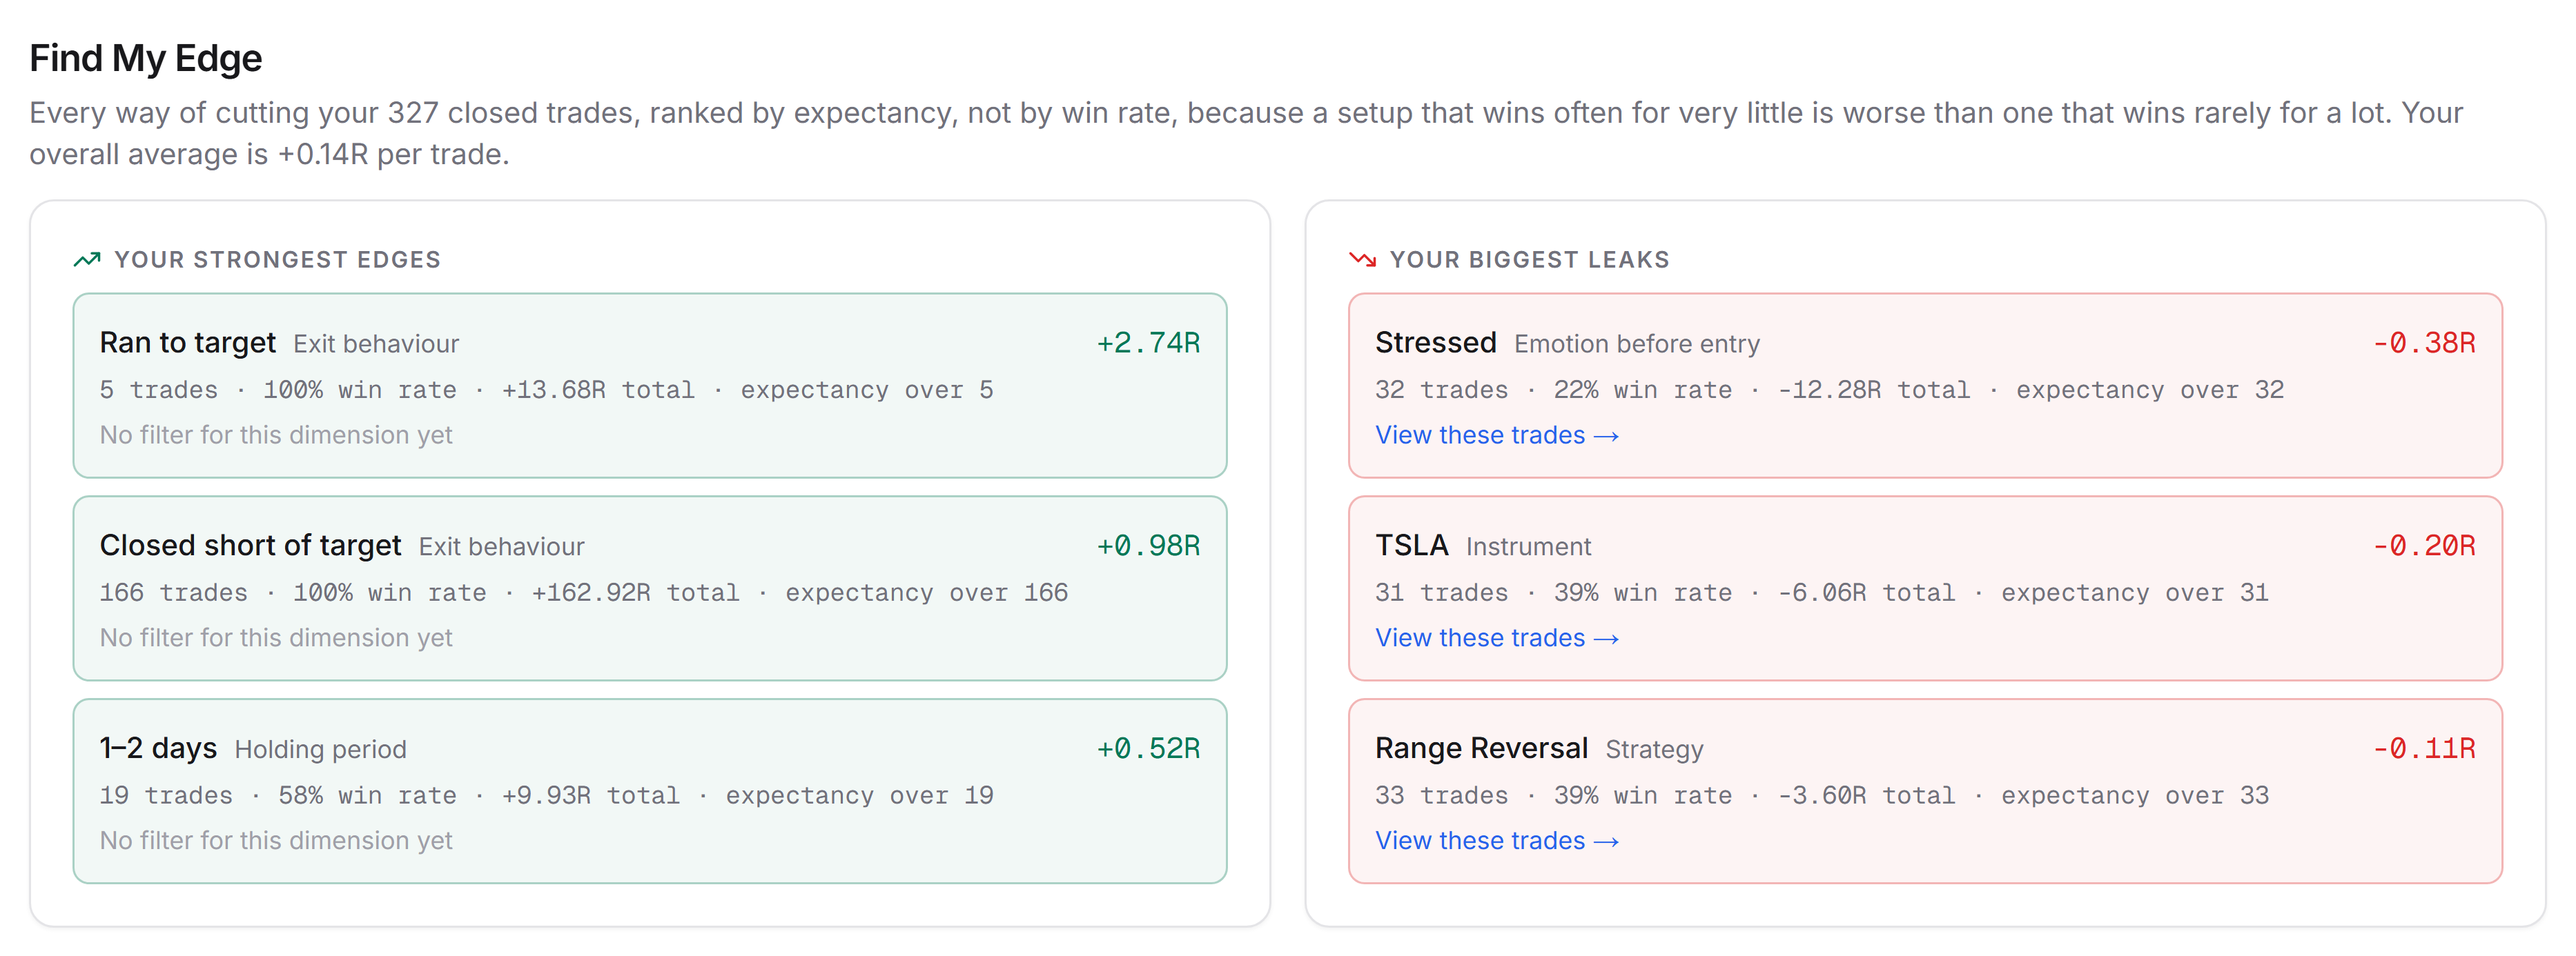
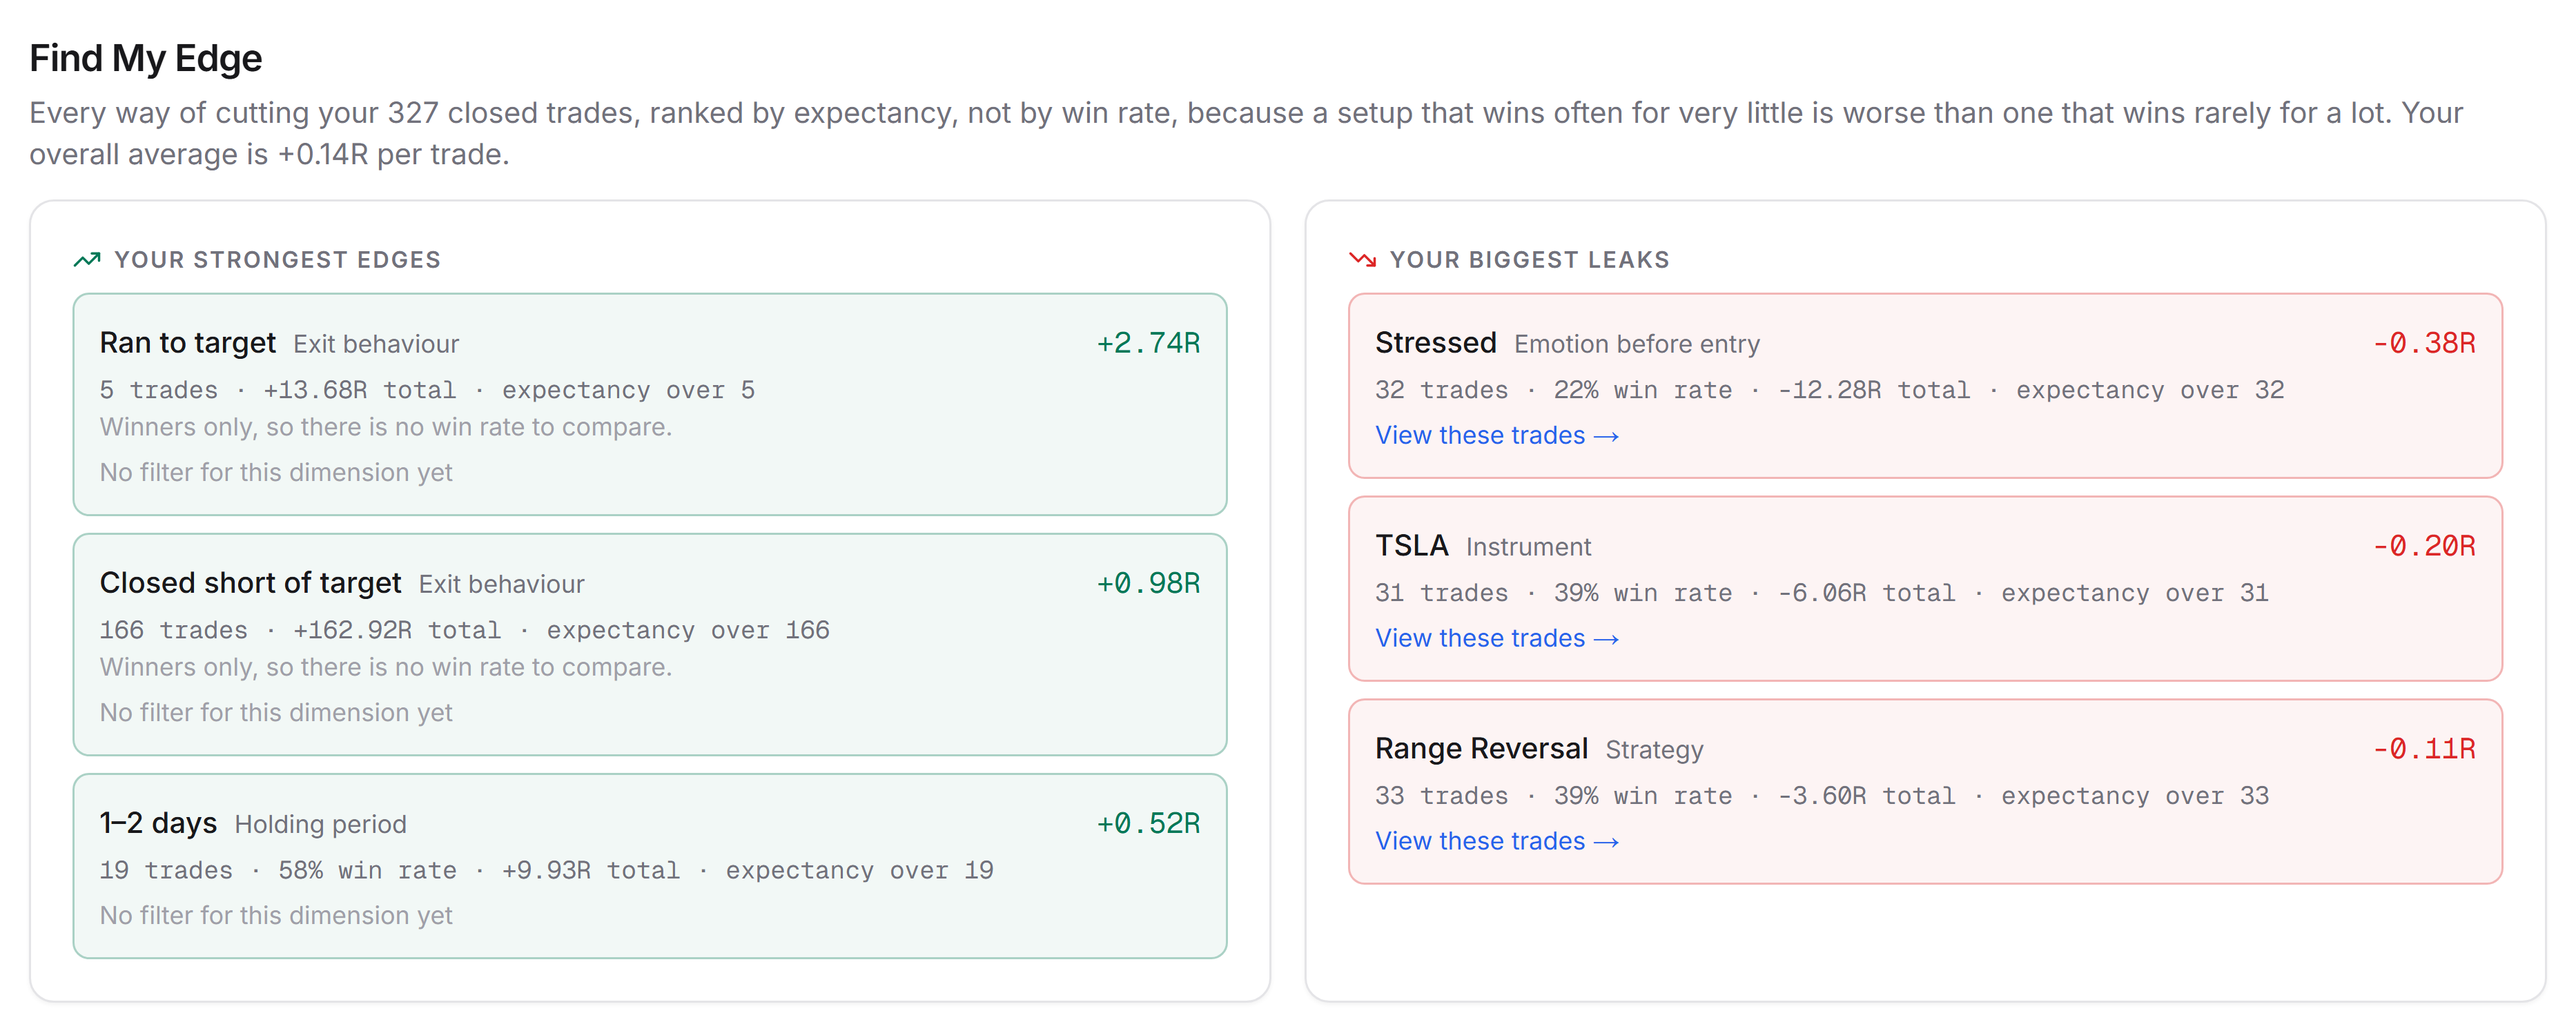
Stop printing a win rate that is always 100%, and explain the paid plan
The Find My Edge screenshot showed "Closed short of target - 166 trades -
100% win rate", which reads as either a miracle or a bug. It was neither,
and it was not bad demo data: the exit-behaviour dimension is winners-only
by design, because exiting short of target on a loser is a stop being hit
rather than an exit decision. A win rate over a winners-only group is a
restatement of how the group is built, so the panel now says exactly that
instead of printing 100% next to real win rates on neighbouring rows.

That is an app fix, not a screenshot fix. Any real user reading that panel
saw the same meaningless figure.

Adds /paid-plan: every gated feature with what it is, how it works and how
to use it, reached from a link under the pricing walkthrough. Each entry
maps to a real gate in the code, and no price appears anywhere because
billing is not live yet.

The capture script now takes a PORT and documents the trap that cost two
rounds here: next/image keys its cache on the request URL, so recapturing
keeps serving the old picture until .next/dev/cache/images is deleted.

diff --git a/src/app/paid-plan/page.tsx b/src/app/paid-plan/page.tsx
@@ -1,0 +1,215 @@
+import type { Metadata } from "next";
+import Link from "next/link";
+import { LandingHeader } from "@/components/landing/LandingHeader";
+import { LandingFooter } from "@/components/landing/LandingFooter";
+
+// The long version of the paid plan.
+//
+// The pricing section already has a two-minute walkthrough modal. This is the
+// page for the reader who wants to know exactly what they would be paying for
+// before they decide, and it answers three questions per feature rather than
+// listing names: what it is, how it works, and how you would actually use it.
+//
+// **Every entry below maps to a real gate in the code.** /reviews, /reports
+// and /ask check isPaidUser and redirect; Find My Edge, the strategy
+// scorecards, and the performance, excursion, risk and regime panels render an
+// upsell in place of the panel. Nothing here is aspirational, and a feature
+// that does not ship does not appear.
+//
+// No pricing number appears anywhere on this page on purpose: billing is not
+// live yet, and a figure printed before it is real is the kind of detail
+// people remember being wrong about.
+
+export const metadata: Metadata = {
+  title: "What the paid plan does — Trading Lens",
+  description:
+    "Every paid feature explained: what it is, how it works, and how to use it. The free journal stays complete.",
+};
+
+interface Feature {
+  name: string;
+  where: string;
+  what: string;
+  how: string;
+  use: string;
+}
+
+const GROUPS: { group: string; blurb: string; features: Feature[] }[] = [
+  {
+    group: "Reading your own history",
+    blurb:
+      "The free plan records what happened. These four read it back and tell you which parts of your trading are carrying the account.",
+    features: [
+      {
+        name: "Find My Edge",
+        where: "Insights",
+        what: "Every way of cutting your closed trades, ranked by expectancy rather than win rate.",
+        how: "Each trade is grouped by setup, instrument, day, holding period, emotion and exit behaviour. Every group is scored on average R and compared against your own overall average, so the ranking is relative to you rather than to some general benchmark. Groups below a minimum sample are held back instead of shown, because a segment built on four trades is noise.",
+        use: "Open it after a month or two of trading. Read the leaks before the edges: cutting the worst segment usually moves the curve further than doing more of the best one.",
+      },
+      {
+        name: "MAE / MFE",
+        where: "Analysis",
+        what: "How far each trade went against you after entry, and how far it ran in your favour before you closed it.",
+        how: "Prices between your entry and exit are measured to find the worst and best points the trade reached, then expressed both as a percentage and in R. The capture figure is the share of the favourable move you actually kept.",
+        use: "A high adverse excursion on trades that still won means your stop is sitting further away than it needs to. A low capture rate means you are leaving the back half of your moves behind.",
+      },
+      {
+        name: "Strategy scorecards",
+        where: "Strategies",
+        what: "Each strategy scored on its own, side by side.",
+        how: "Trades are grouped by the strategy they are tagged with, then scored on the same measures the rest of the app uses, so the numbers agree with what you see elsewhere.",
+        use: "Run it when you are deciding which setup to drop. It answers which strategy is worth the screen time, rather than which one you enjoy trading.",
+      },
+      {
+        name: "Risk, regime and performance panels",
+        where: "Analysis",
+        what: "Three deeper reads: how much you risk and when, how you do in different market conditions, and how performance moves over time.",
+        how: "All three are built from the same stats engine the free analytics use, so a figure here never disagrees with a figure there.",
+        use: "These are the monthly-review panels rather than the daily ones. Most people open them once a month, not once a session.",
+      },
+    ],
+  },
+  {
+    group: "AI that runs on your key",
+    blurb:
+      "Every AI feature uses an API key you provide. The app never holds a usable key of its own, which is worth understanding before you decide how you feel about AI touching your trading data.",
+    features: [
+      {
+        name: "AI trade review",
+        where: "Reviews",
+        what: "Any closed trade scored on how you traded it rather than on whether it won.",
+        how: "The trade, your plan rules and your own history are sent to the provider you configured. The score separates execution from outcome, so a winner you fumbled can still come back marked down, and a loss where you followed your plan exactly does not.",
+        use: "Review the trades that felt worst, not the ones that lost most. Those are usually different trades, and the gap between them is the useful part.",
+      },
+      {
+        name: "AI period review",
+        where: "Reviews",
+        what: "Your week or month summarised: the biggest edge, the biggest leak, and three priorities.",
+        how: "The period's trades and your own statistics are summarised and sent to your provider, which returns a written read rather than another table.",
+        use: "Run it on a Friday. It is the fastest way to end a week with a short list of what to change instead of a vague sense that something is off.",
+      },
+      {
+        name: "Ask",
+        where: "AI",
+        what: "A question box over your own journal.",
+        how: "Your question and the relevant slice of your trading data go to your configured provider. Bring a key from any supported provider; free tiers are usually enough.",
+        use: "Best for questions a table cannot answer in one look, such as how a setup behaves when you are already down on the day.",
+      },
+    ],
+  },
+  {
+    group: "Taking it with you",
+    blurb: "For the parts of reviewing that happen away from the screen.",
+    features: [
+      {
+        name: "Printable reports",
+        where: "Reports",
+        what: "Your month as a document, laid out to print.",
+        how: "The report is rendered as a real page with print styles, so your browser's Save as PDF produces something readable rather than a screenshot of an app.",
+        use: "Useful if you review on paper, keep records for tax, or send a monthly summary to someone who coaches you.",
+      },
+    ],
+  },
+];
+
+export default function PaidPlanPage() {
+  return (
+    <div data-v2-page="landing" className="flex flex-1 flex-col">
+      <LandingHeader />
+
+      <section className="mx-auto w-full max-w-4xl px-6 pt-16 pb-10 sm:px-10">
+        <p className="font-mono text-[11px] uppercase tracking-[0.2em] text-primary">
+          The paid plan, in full
+        </p>
+        <h1 className="mt-4 text-3xl font-semibold tracking-tight text-zinc-900 dark:text-zinc-50 sm:text-4xl">
+          What you would be paying for
+        </h1>
+        <p className="mt-4 max-w-2xl text-lg leading-relaxed text-zinc-600 dark:text-zinc-400">
+          Every paid feature below, with what it is, how it works, and how you would use it. The
+          free journal stays complete either way: nothing you rely on today moves behind this.
+        </p>
+        <p className="mt-3 max-w-2xl text-sm text-zinc-500">
+          Billing is not live yet, so there is no price here to quote.
+        </p>
+      </section>
+
+      {GROUPS.map((group) => (
+        <section key={group.group} className="mx-auto w-full max-w-4xl px-6 pb-12 sm:px-10">
+          <div className="border-t border-zinc-200 pt-10 dark:border-subtle">
+            <h2 className="text-xl font-semibold tracking-tight text-zinc-900 dark:text-zinc-50">
+              {group.group}
+            </h2>
+            <p className="mt-2 max-w-2xl text-zinc-600 dark:text-zinc-400">{group.blurb}</p>
+
+            <div className="mt-8 flex flex-col gap-8">
+              {group.features.map((f) => (
+                <article
+                  key={f.name}
+                  className="rounded-xl border border-zinc-200 p-6 dark:border-subtle sm:p-7"
+                >
+                  <div className="flex flex-wrap items-baseline justify-between gap-2">
+                    <h3 className="text-lg font-semibold tracking-tight text-zinc-900 dark:text-zinc-50">
+                      {f.name}
+                    </h3>
+                    <span className="font-mono text-[10px] uppercase tracking-[0.14em] text-zinc-400 dark:text-zinc-500">
+                      Found under {f.where}
+                    </span>
+                  </div>
+
+                  <p className="mt-3 text-[15px] leading-relaxed text-zinc-700 dark:text-zinc-300">
+                    {f.what}
+                  </p>
+
+                  {/* A definition list rather than three more paragraphs: the
+                      reader is scanning for one of these three answers, and
+                      labelling them is what makes that possible. */}
+                  <dl className="mt-5 flex flex-col gap-4 border-t border-zinc-200 pt-5 dark:border-subtle">
+                    <div>
+                      <dt className="font-mono text-[10px] uppercase tracking-[0.14em] text-zinc-400 dark:text-zinc-500">
+                        How it works
+                      </dt>
+                      <dd className="mt-1.5 text-[15px] leading-relaxed text-zinc-600 dark:text-zinc-400">
+                        {f.how}
+                      </dd>
+                    </div>
+                    <div>
+                      <dt className="font-mono text-[10px] uppercase tracking-[0.14em] text-zinc-400 dark:text-zinc-500">
+                        How to use it
+                      </dt>
+                      <dd className="mt-1.5 text-[15px] leading-relaxed text-zinc-600 dark:text-zinc-400">
+                        {f.use}
+                      </dd>
+                    </div>
+                  </dl>
+                </article>
+              ))}
+            </div>
+          </div>
+        </section>
+      ))}
+
+      <section className="mx-auto w-full max-w-4xl px-6 pb-24 sm:px-10">
+        <div className="border-t border-zinc-200 pt-10 dark:border-subtle">
+          <h2 className="text-xl font-semibold tracking-tight text-zinc-900 dark:text-zinc-50">
+            What stays free
+          </h2>
+          <p className="mt-2 max-w-2xl text-zinc-600 dark:text-zinc-400">
+            Unlimited trades, the equity curve and drawdown, win rate, profit factor and
+            expectancy, trading rules with automatic mistake tracking, goals, imports and exports,
+            and full version history. It is a complete journal rather than a trial, and nothing in
+            it expires.
+          </p>
+          <Link
+            href="/sign-up"
+            className="mt-6 inline-block rounded-lg bg-primary px-6 py-3 font-medium text-white transition hover:brightness-110 dark:text-zinc-950"
+          >
+            Start journaling free
+          </Link>
+        </div>
+      </section>
+
+      <LandingFooter />
+    </div>
+  );
+}

diff --git a/src/app/insights/edge-panel.tsx b/src/app/insights/edge-panel.tsx
@@ -14,6 +14,16 @@ import type { EdgeRow } from "@/lib/edge/queries";
  *  is a conclusion rather than a data dump. */
 const SHOWN_PER_SIDE = 3;
 
+/** Dimensions computed over winners only, where a win rate is definitionally
+ *  100% and therefore tells the reader nothing.
+ *
+ *  "Closed short of target · 166 trades · 100% win rate" is not a finding, it
+ *  is a restatement of how the dimension is built -- exiting short of target
+ *  on a loser is a stop being hit, so losers are excluded by design. Printed
+ *  next to real win rates on neighbouring rows it reads as either a miracle
+ *  or a bug, and it is neither. See the `exit` dimension in lib/edge/queries. */
+const WINNERS_ONLY_DIMENSIONS = new Set(["exit"]);
+
 function formatR(value: number | null): string {
   if (value === null) return "—";
   return `${value >= 0 ? "+" : ""}${value.toFixed(2)}R`;
@@ -49,9 +59,21 @@ function SegmentRow({
 
       {/* Every figure the conclusion rests on, so it can be checked. */}
       <p className="mt-1 font-mono text-xs text-zinc-500">
-        {stats.trades} trades · {stats.winRate === null ? "—" : `${(stats.winRate * 100).toFixed(0)}%`} win
-        rate · {formatR(stats.totalR)} total · expectancy over {stats.withR}
+        {stats.trades} trades
+        {!WINNERS_ONLY_DIMENSIONS.has(segment.dimensionId) && (
+          <>
+            {" · "}
+            {stats.winRate === null ? "—" : `${(stats.winRate * 100).toFixed(0)}%`} win rate
+          </>
+        )}
+        {" · "}
+        {formatR(stats.totalR)} total · expectancy over {stats.withR}
       </p>
+      {WINNERS_ONLY_DIMENSIONS.has(segment.dimensionId) && (
+        <p className="mt-0.5 text-xs text-zinc-400 dark:text-zinc-600">
+          Winners only, so there is no win rate to compare.
+        </p>
+      )}
 
       {segment.drillDownUrl ? (
         <Link href={segment.drillDownUrl} className="mt-1 inline-block text-xs text-primary hover:underline">

diff --git a/src/components/landing/PricingTeaser.tsx b/src/components/landing/PricingTeaser.tsx
@@ -110,6 +110,18 @@ export function PricingTeaser() {
             <p className="relative mt-3 text-center text-xs text-zinc-500">
               Two minutes. It&rsquo;s not on sale yet, but this is what&rsquo;s coming.
             </p>
+
+            {/* The walkthrough above is a two-minute skim. Some readers want
+                the whole thing before deciding, and sending them to a page
+                rather than a longer modal means they can read at their own
+                pace, come back to it, and link it to someone else. */}
+            <Link
+              href="/paid-plan"
+              className="relative mx-auto mt-5 flex items-center justify-center gap-1.5 text-sm font-medium text-primary hover:underline"
+            >
+              Read how every feature works
+              <ArrowRight className="h-3.5 w-3.5" strokeWidth={2} />
+            </Link>
           </div>
 
           {/* ---- The free plan: beside it, smaller, and complete ---------- */}

diff --git a/src/components/landing/ProductShot.tsx b/src/components/landing/ProductShot.tsx
@@ -27,9 +27,9 @@ export function ProductShot() {
       >
         <ProductShotFrame
           src="/screenshots/edge.png"
-          alt="The Find My Edge panel: strongest edges on the left ranked by expectancy in R, biggest leaks on the right. Each row shows the trade count, win rate and total R behind the figure."
+          alt="The Find My Edge panel: strongest edges on the left ranked by expectancy in R, biggest leaks on the right. Each row shows the trade count and total R behind the figure."
           width={3732}
-          height={1386}
+          height={1494}
           sizes="(max-width: 1152px) 100vw, 1152px"
           priority
           caption="Find My Edge, captured from the app. Figures come from the demo account, so they are seeded rather than anyone’s real trading history."

diff --git a/src/lib/public-paths.ts b/src/lib/public-paths.ts
@@ -11,4 +11,5 @@ export const PUBLIC_PATHS = [
   "/terms",
   "/cookies",
   "/contact",
+  "/paid-plan",
 ];
